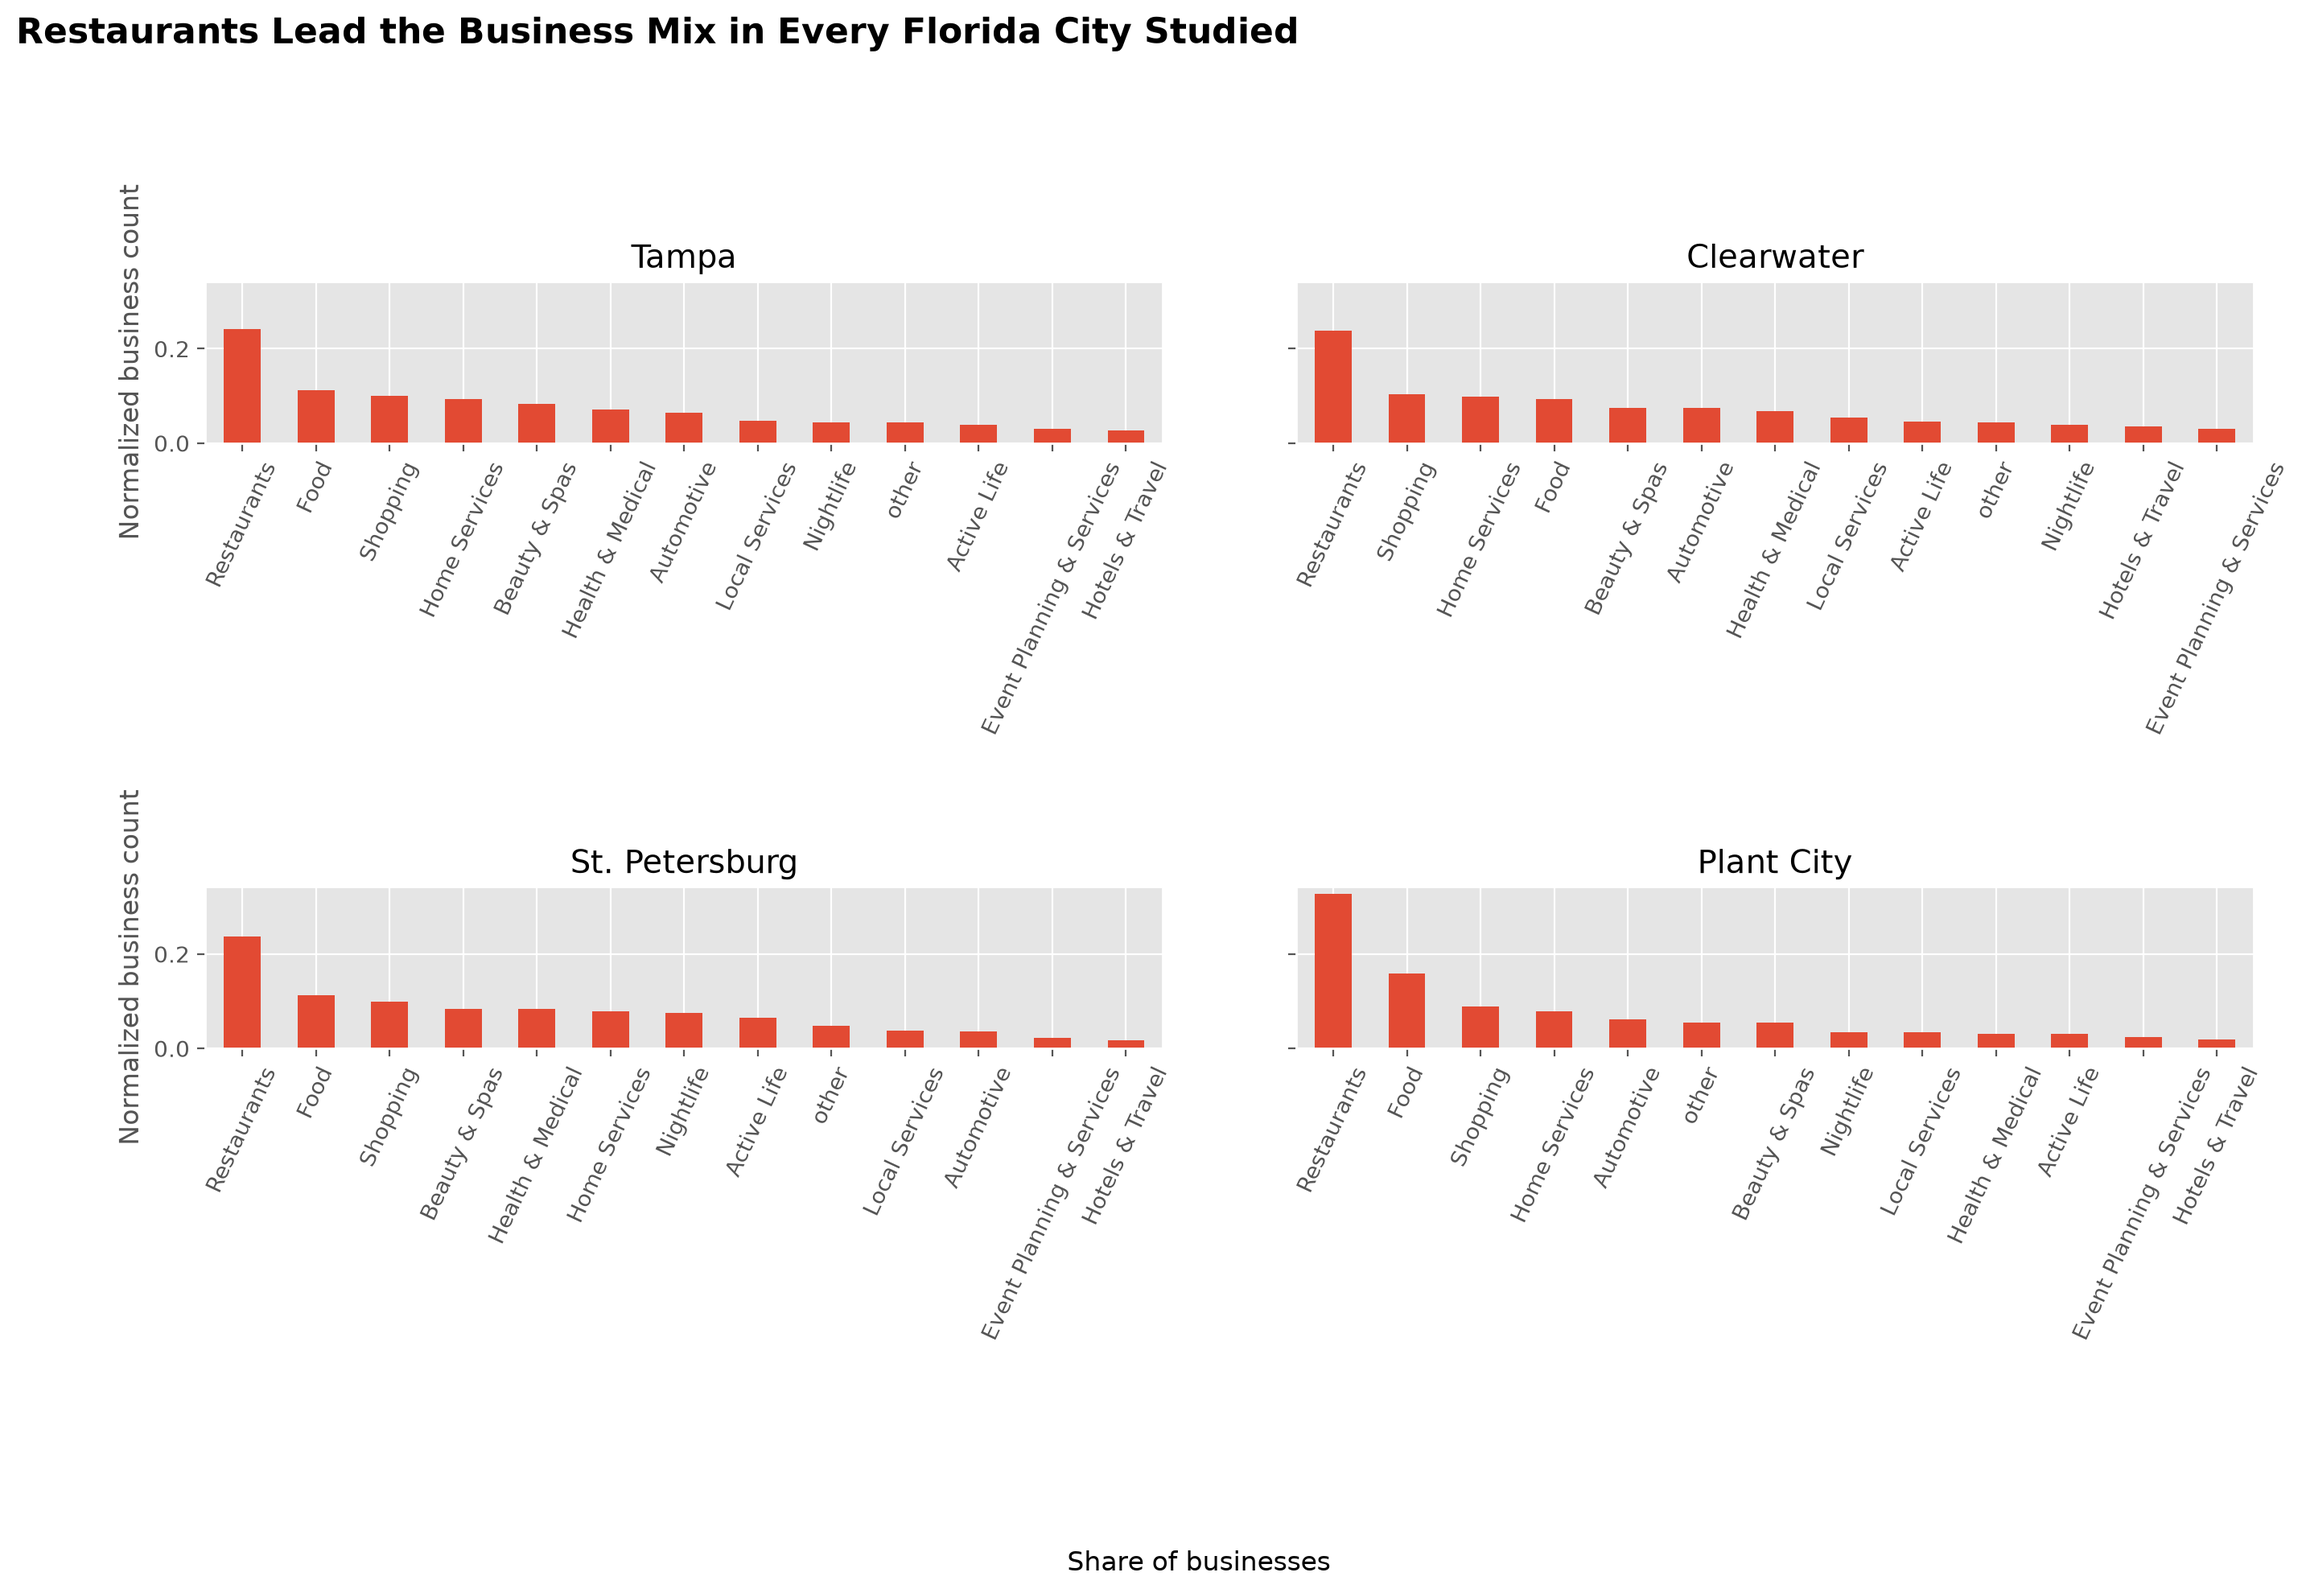
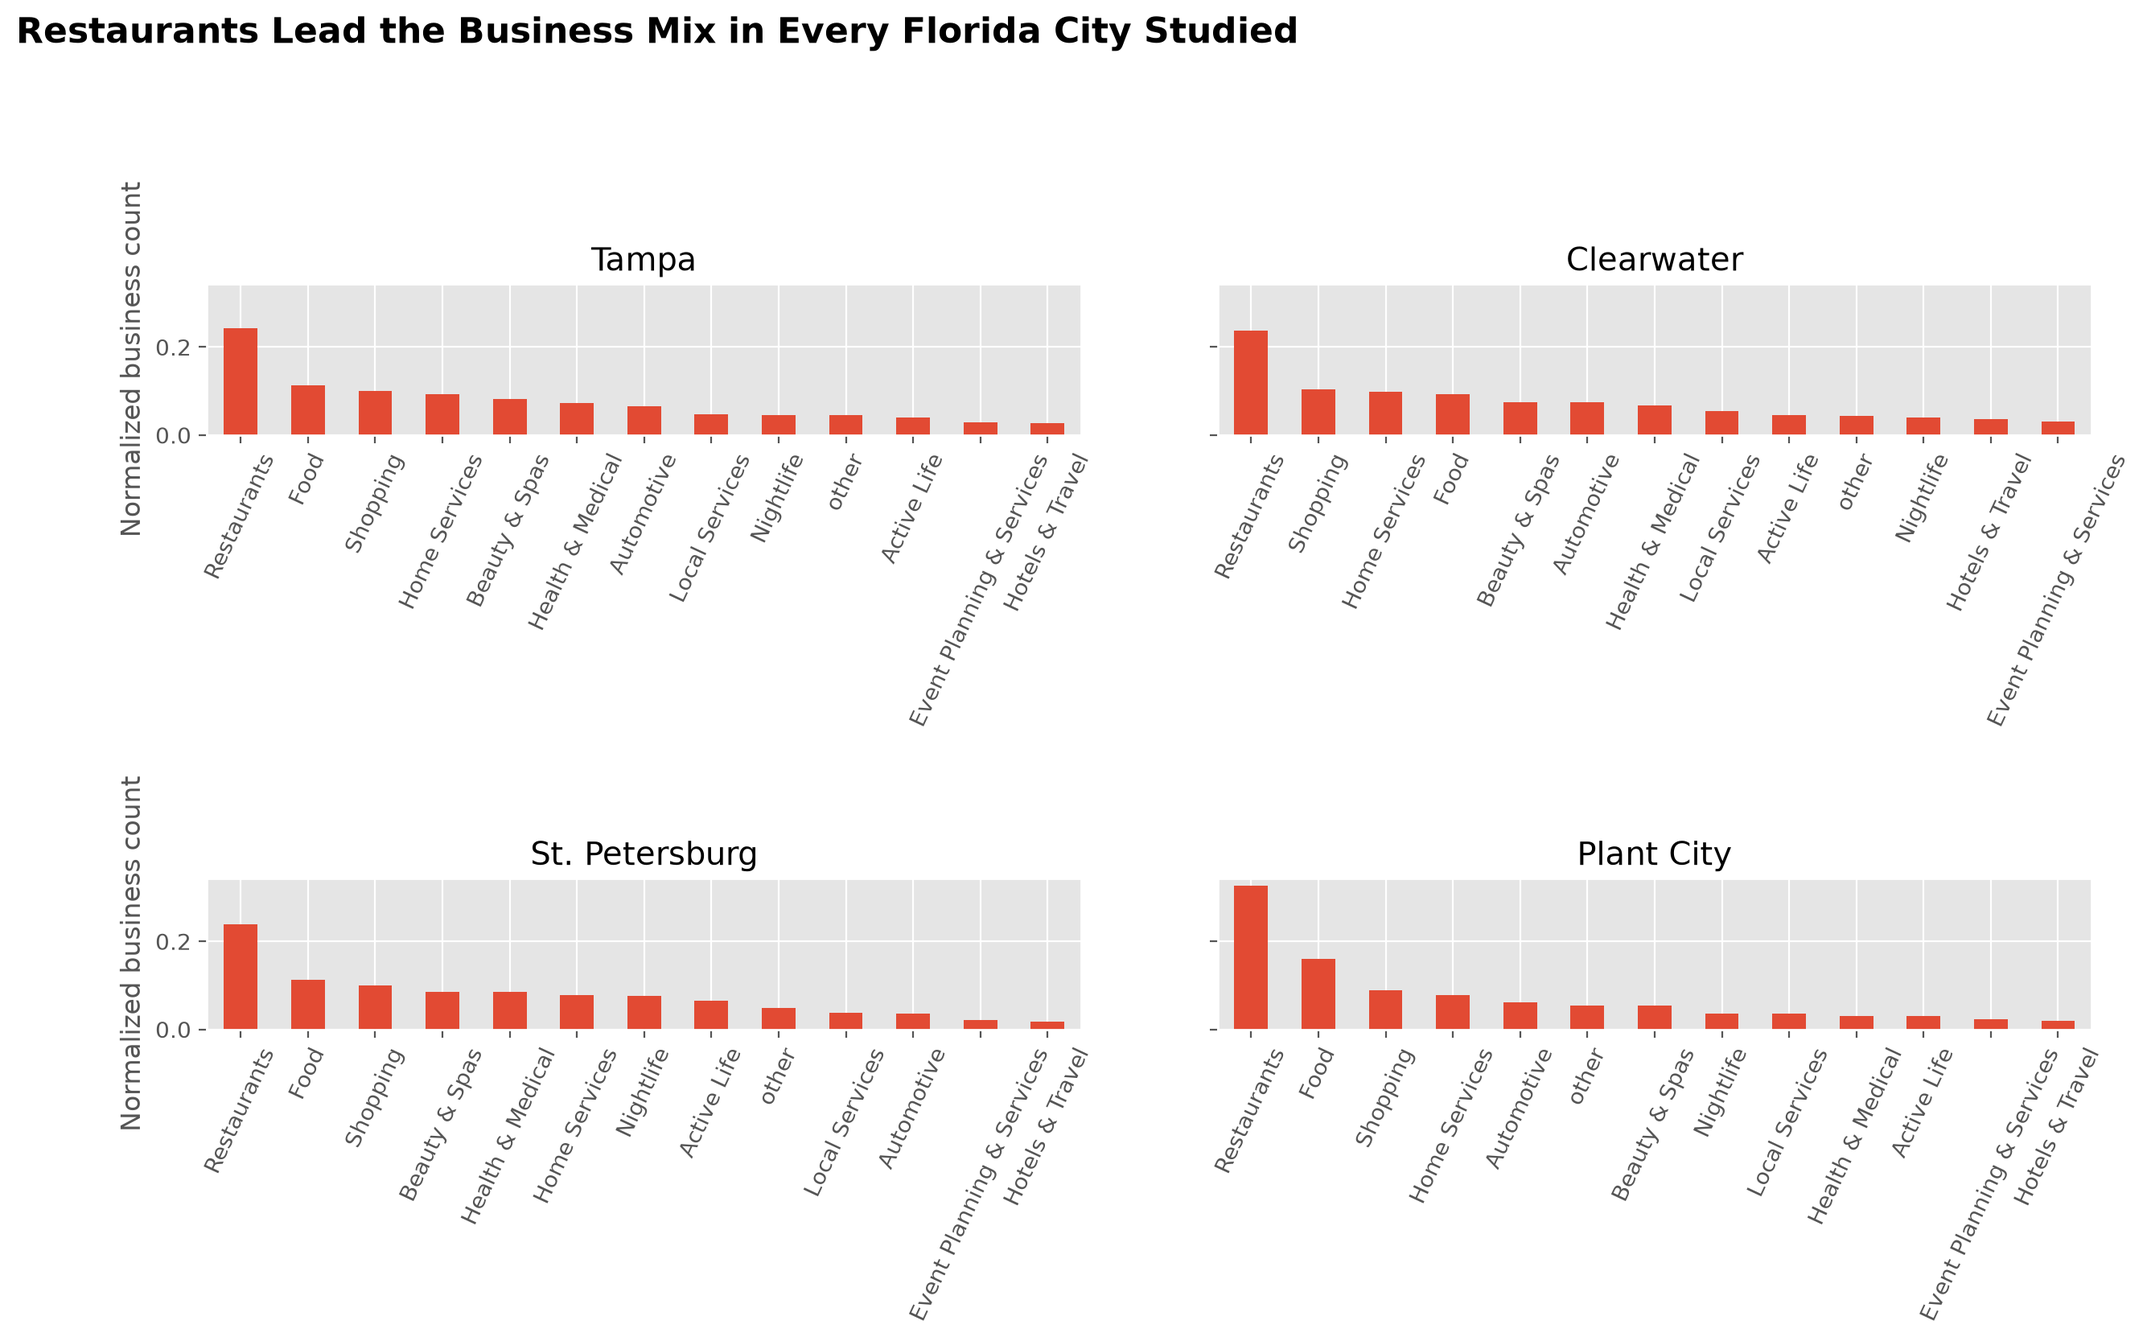
charts scaled

diff --git a/src/analysis.py b/src/analysis.py
@@ -17,7 +17,7 @@ def rating_distribution(df):
     plt.xlabel('Number of reviews (log scale)')
     plt.ylabel('Star rating')
     plt.xscale('log')
-    plt.title('Do Popular Florida Businesses Rate Higher? Not Really', loc='left', fontweight='bold')
+    plt.title('Do More Reviews Mean Rate Higher?', loc='left', fontweight='bold')
     plt.tight_layout(pad=5)
     plt.savefig('outputs/rating_distribution.png', dpi=200, bbox_inches='tight')
     plt.show()
@@ -26,9 +26,8 @@ def rating_distribution(df):
 def city_compare(df):
     top4 = df['city'].value_counts().head(4).index
         
-    fig, axes = plt.subplots(2, 2, figsize=(15, 10), sharey=True)
+    fig, axes = plt.subplots(2, 2, figsize=(14, 9), sharey=True)
     axes = axes.flatten()
-    fig.supxlabel('Share of businesses')
     fig.suptitle('Restaurants Lead the Business Mix in Every Florida City Studied',
                 x=0.01, ha='left', fontsize=16, fontweight='bold')
 
@@ -39,6 +38,7 @@ def city_compare(df):
         ax.set_title(name)
         ax.set_xlabel(None)
         ax.set_ylabel('Normalized business count')
+        
 
     plt.tight_layout(pad=5)
     plt.savefig('outputs/business_categories.png', dpi=200, bbox_inches='tight')
